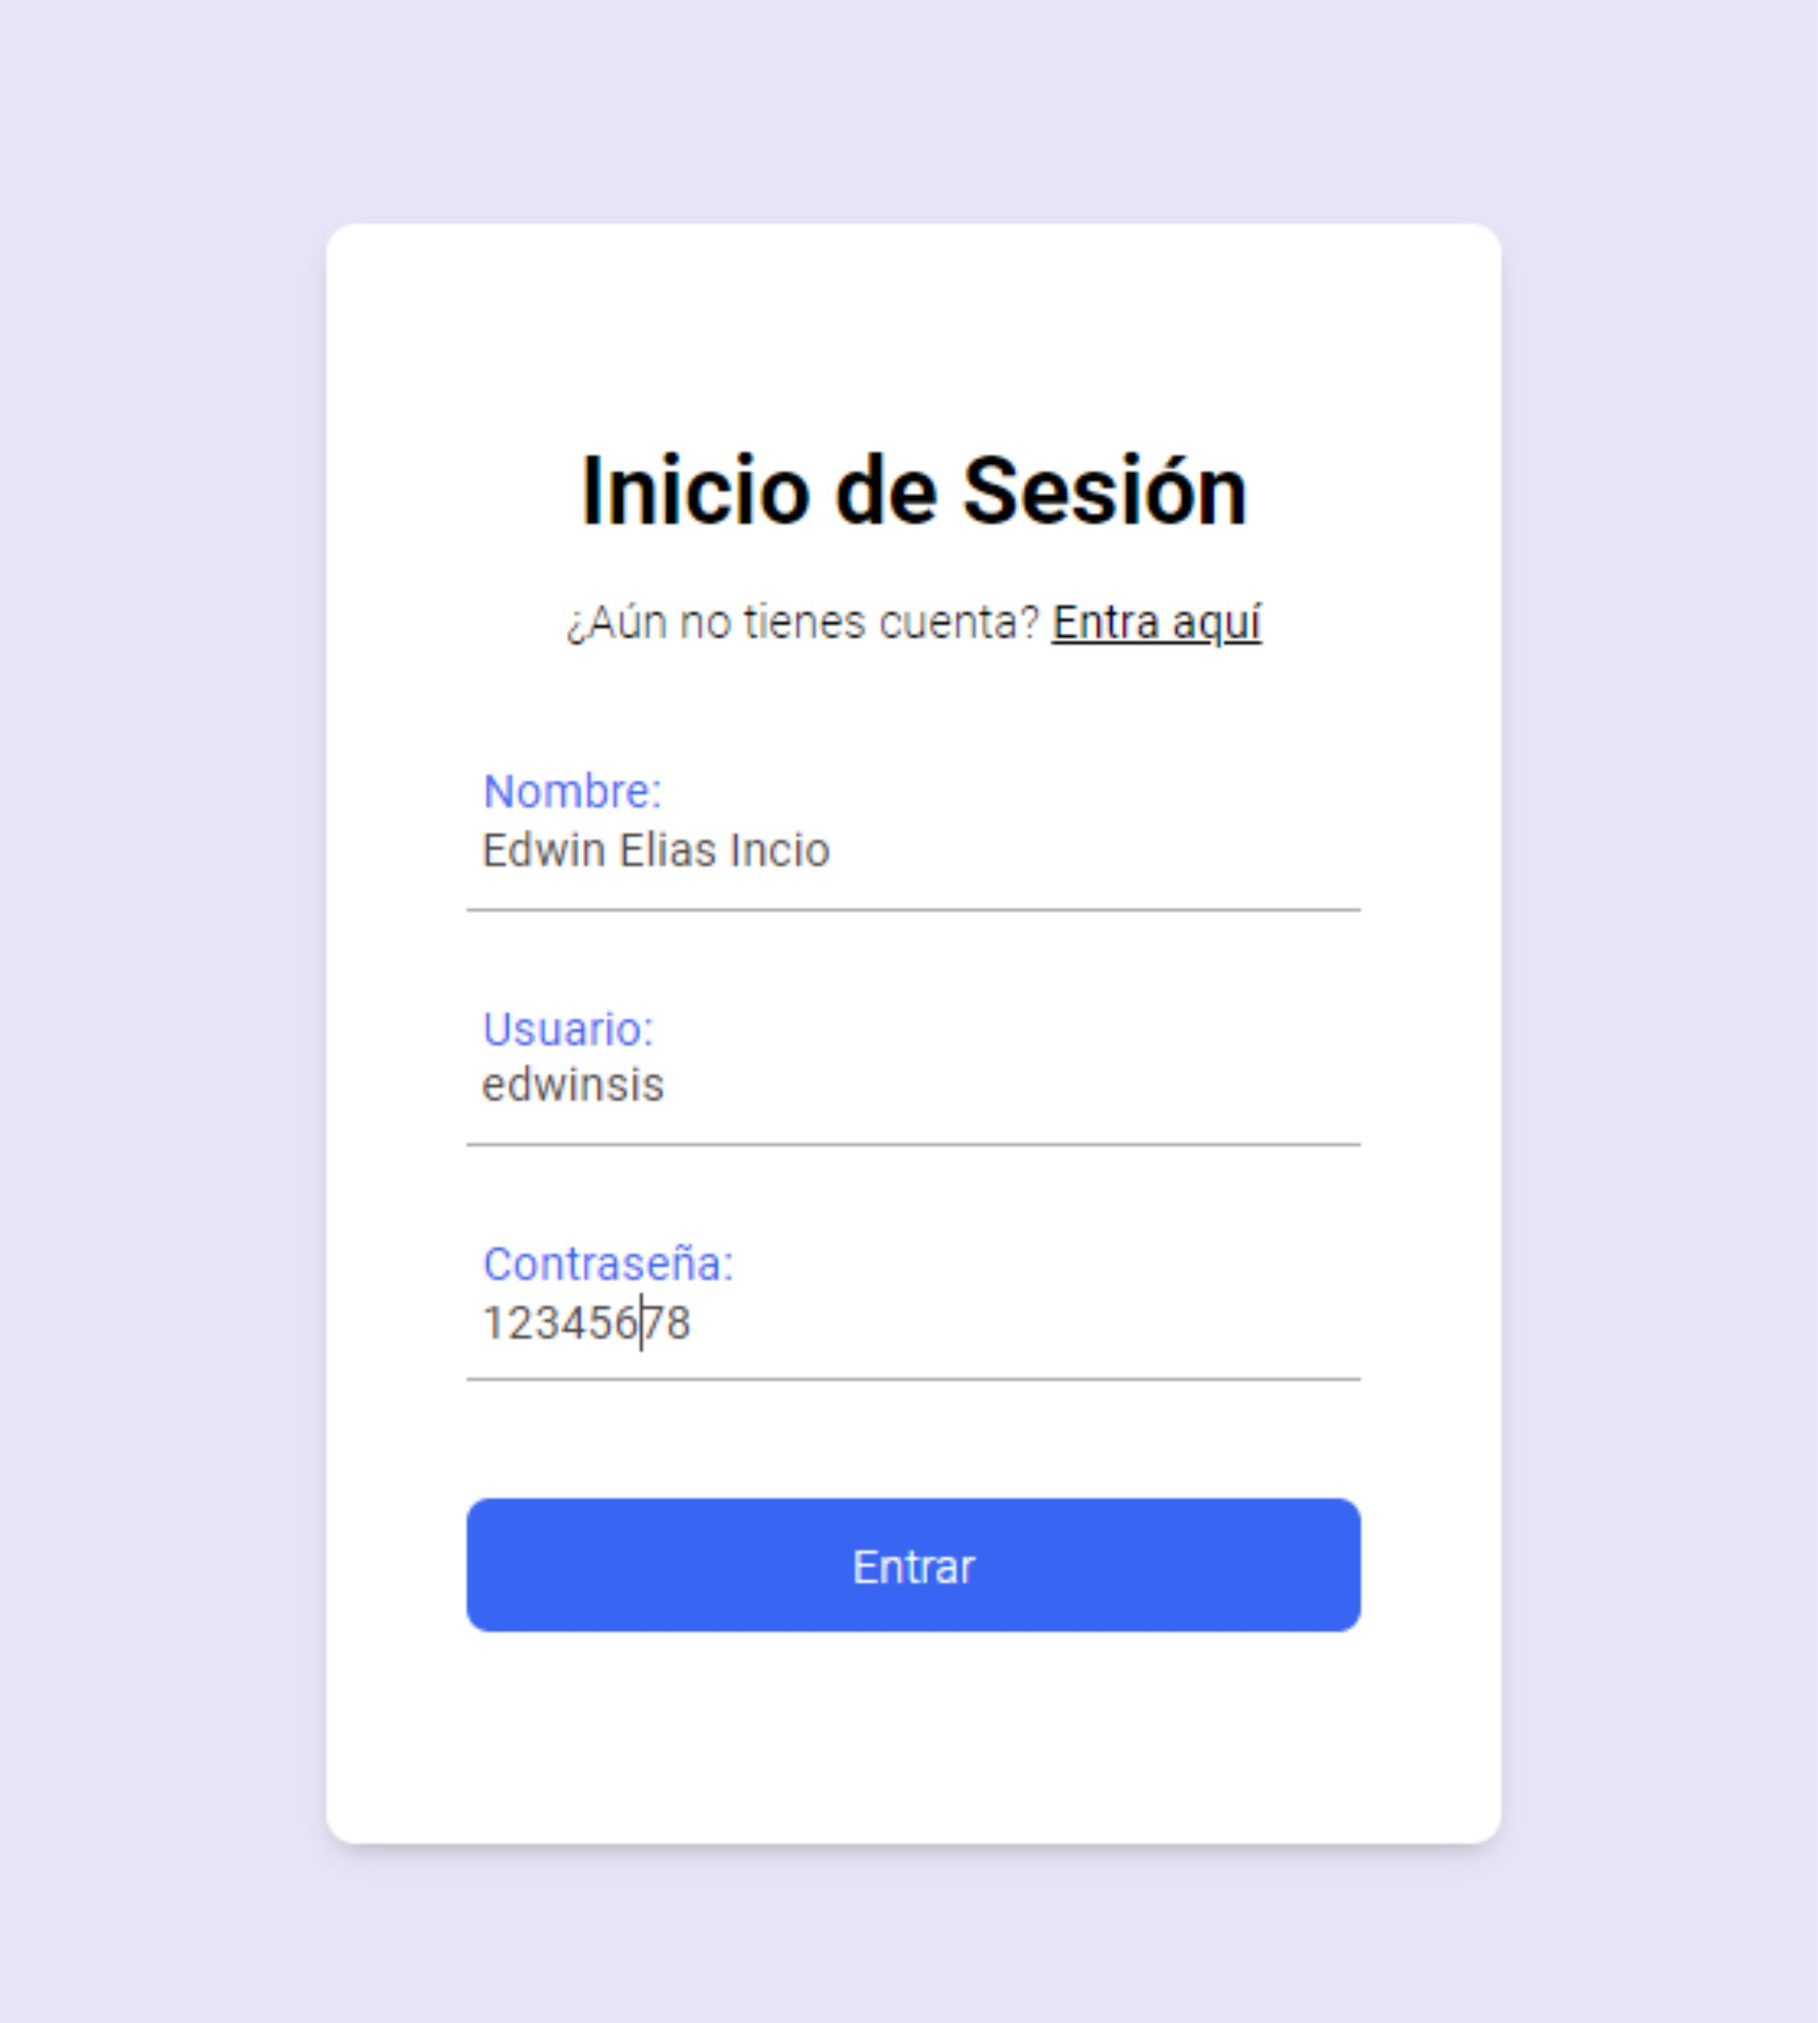
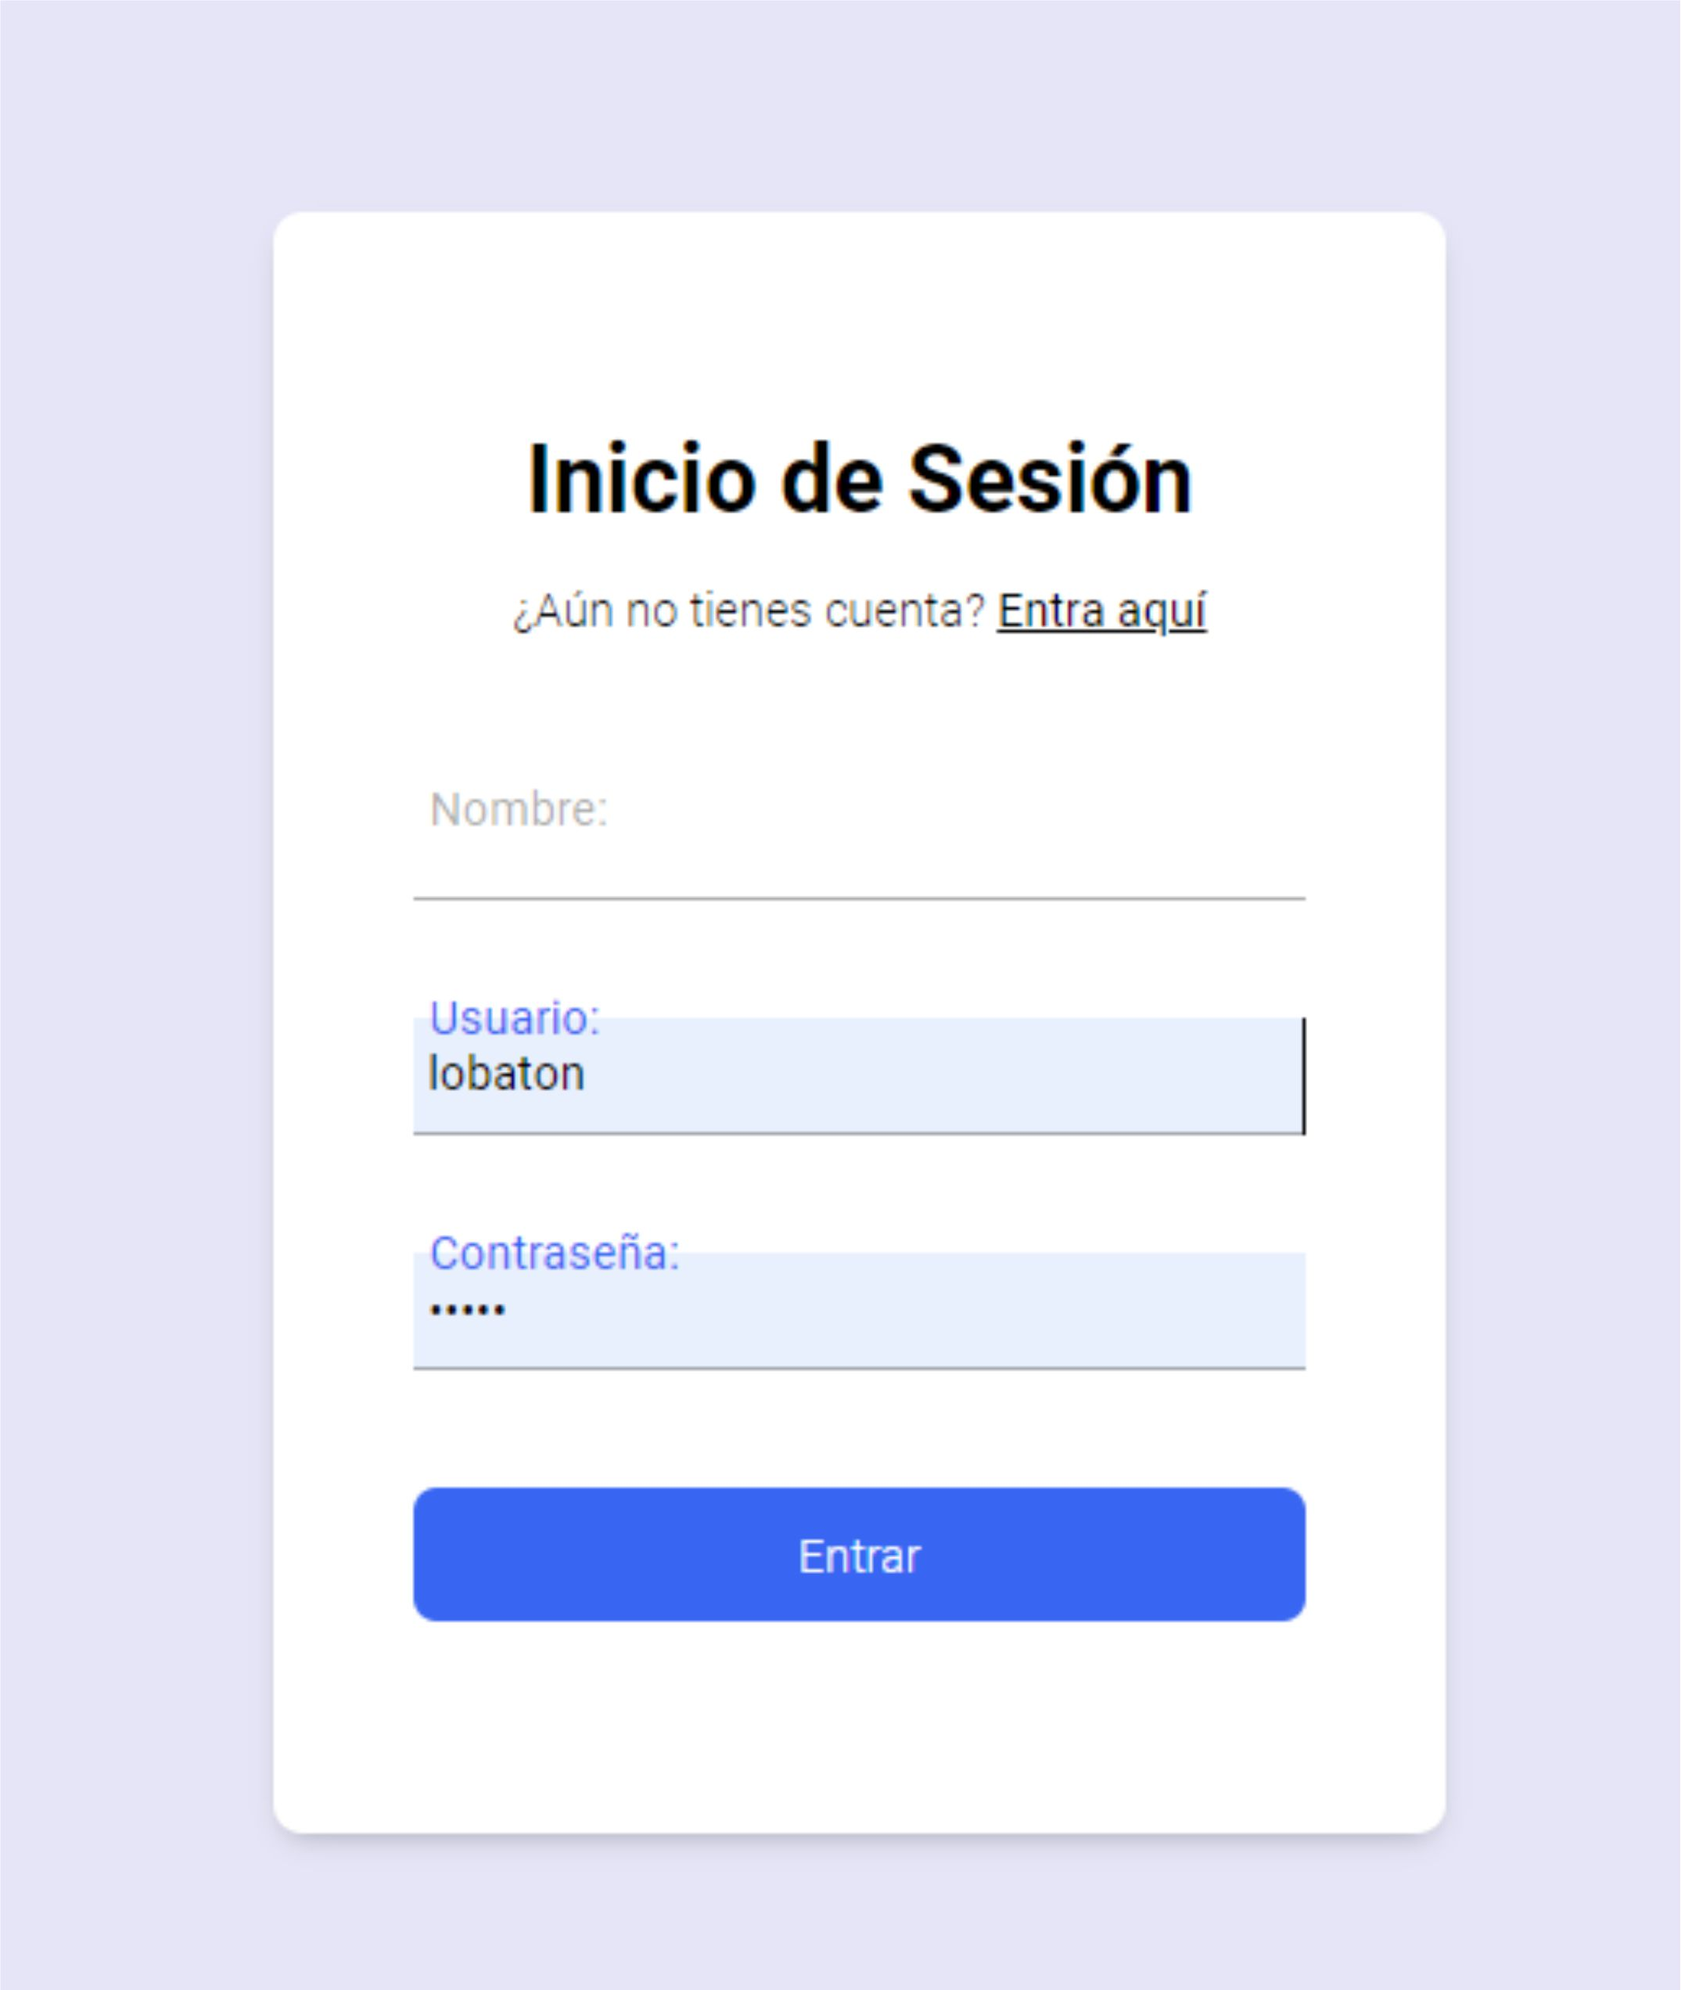
actualización

diff --git a/login-02/index.php b/login-02/index.php
@@ -23,7 +23,7 @@
             <span class="form_line"></span>
         </div>
         <div class="form_grupo">
-            <input type="text" id="password" class="form_input" placeholder=" " required >
+            <input type="password" id="password" class="form_input" placeholder=" " required >
             <label for="password" class="form_label">Contraseña:</label>
             <span class="form_line"></span>
         </div>
